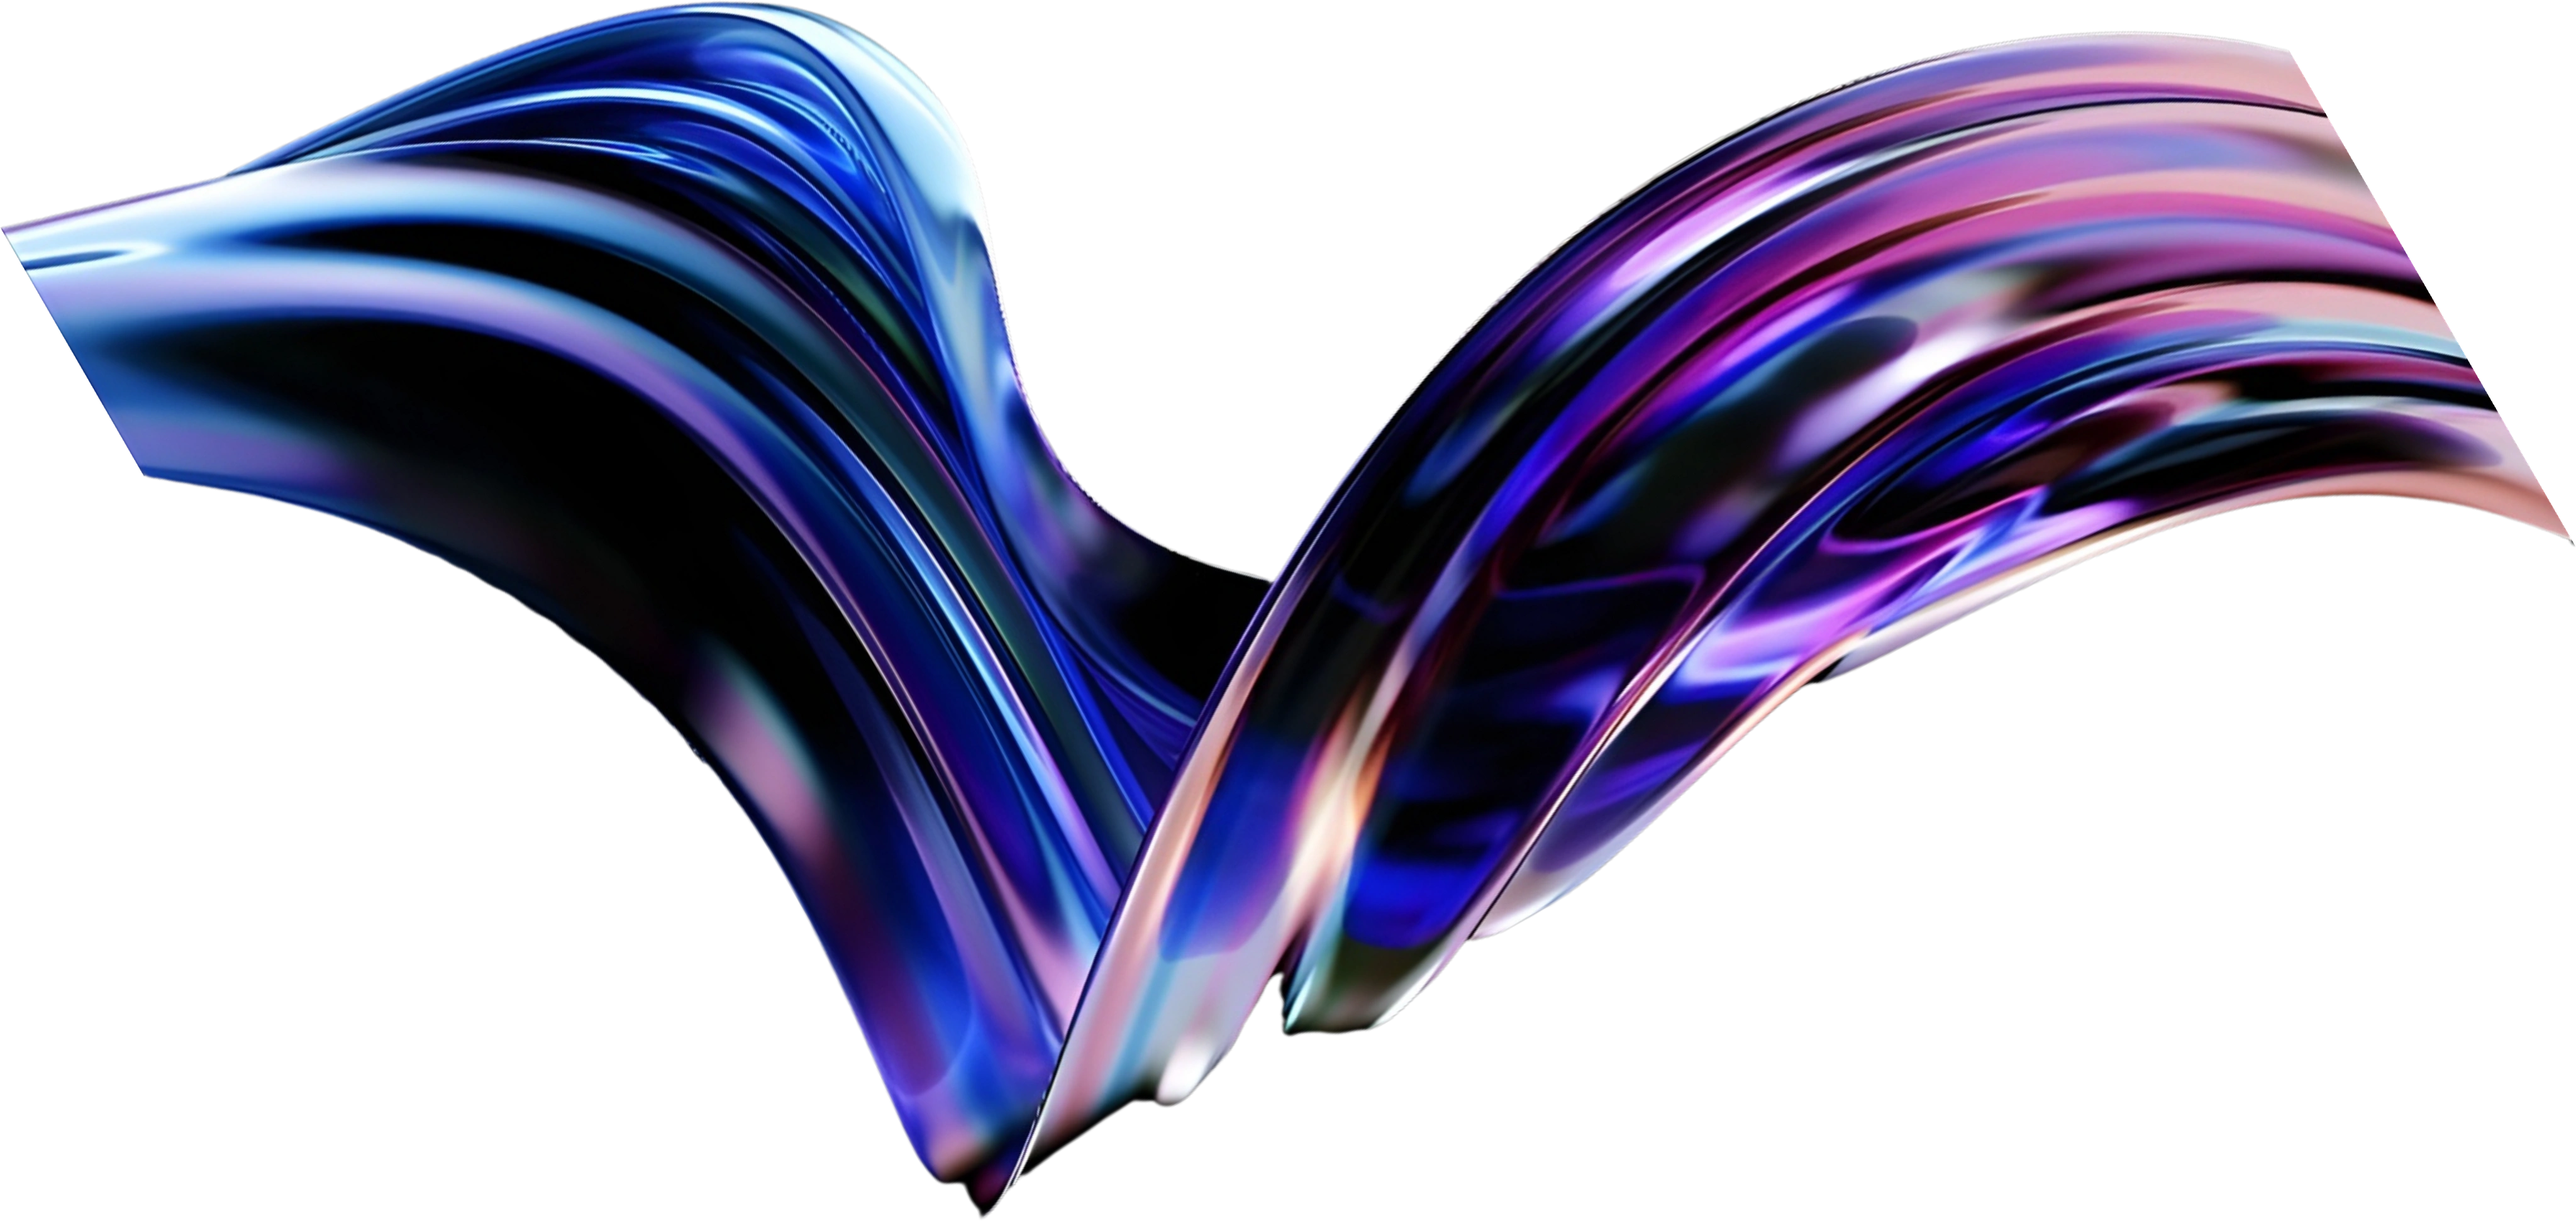
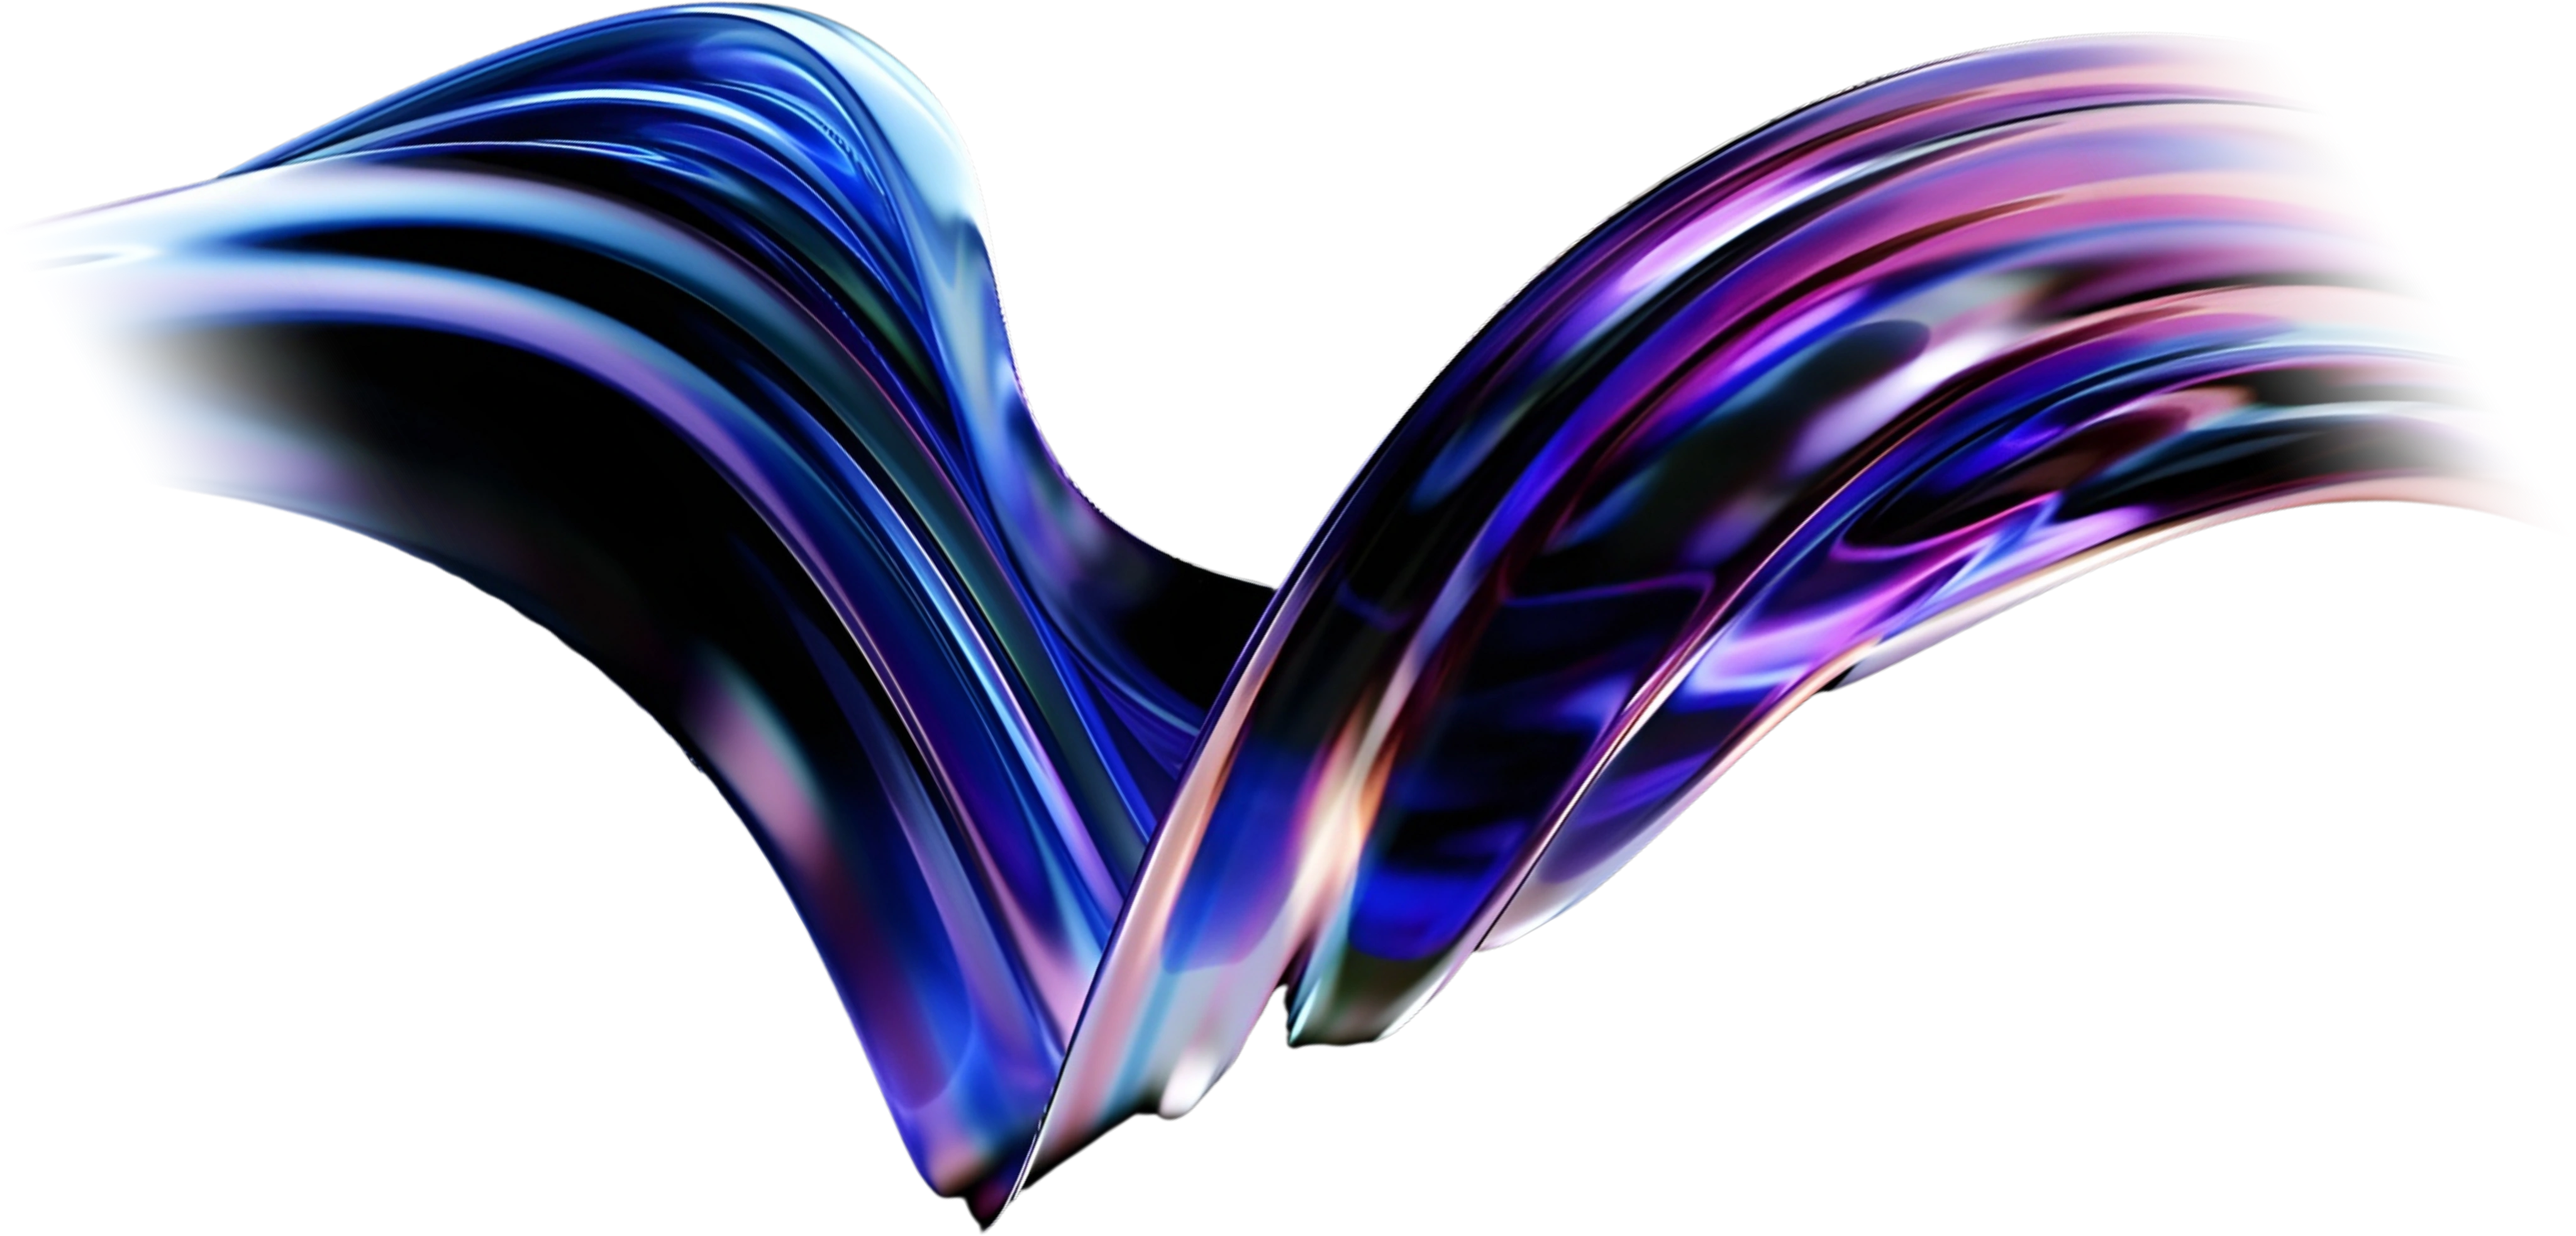
fix: eliminate all 3D mesh cut stubs with smoothstep alpha dissolves and seamless horizontal bleed

diff --git a/style.css b/style.css
@@ -655,18 +655,16 @@ body, body.desktop-view {
 /* Designer's 3D Blue Wave Ribbon 1 (Horizontal Seamless) */
 .about-wave-horizontal {
   position: absolute;
-  left: -5vw;
-  top: 48%;
-  transform: translateY(-50%);
-  width: 85vw;
-  max-width: 1600px;
+  left: 50%;
+  top: 50%;
+  transform: translate(-50%, -50%);
+  width: 105vw;
+  max-width: none;
   height: auto;
   pointer-events: none;
   z-index: 1;
   opacity: 0.65;
   filter: drop-shadow(0 0 50px rgba(67, 106, 238, 0.45));
-  -webkit-mask-image: linear-gradient(to right, transparent 0%, black 8%, black 90%, transparent 100%);
-  mask-image: linear-gradient(to right, transparent 0%, black 8%, black 90%, transparent 100%);
 }
 
 .about-grid {
@@ -837,19 +835,16 @@ body, body.desktop-view {
 
 .org-wave-horizontal {
   position: absolute;
-  right: -6vw;
-  left: auto;
-  top: 48%;
-  transform: translateY(-50%);
-  width: 80vw;
-  max-width: 1500px;
+  left: 50%;
+  top: 50%;
+  transform: translate(-50%, -50%);
+  width: 105vw;
+  max-width: none;
   height: auto;
   pointer-events: none;
   z-index: 1;
   opacity: 0.60;
   filter: drop-shadow(0 0 50px rgba(145, 224, 253, 0.4));
-  -webkit-mask-image: linear-gradient(to right, transparent 0%, black 10%, black 92%, transparent 100%);
-  mask-image: linear-gradient(to right, transparent 0%, black 10%, black 92%, transparent 100%);
 }
 
 .organizers-cards-grid {
@@ -953,18 +948,16 @@ body, body.desktop-view {
 
 .why-wave-horizontal {
   position: absolute;
-  left: -6vw;
+  left: 50%;
   top: 50%;
-  transform: translateY(-50%);
-  width: 80vw;
-  max-width: 1500px;
+  transform: translate(-50%, -50%);
+  width: 105vw;
+  max-width: none;
   height: auto;
   pointer-events: none;
   z-index: 1;
   opacity: 0.55;
   filter: drop-shadow(0 0 50px rgba(67, 106, 238, 0.4));
-  -webkit-mask-image: linear-gradient(to right, transparent 0%, black 10%, black 92%, transparent 100%);
-  mask-image: linear-gradient(to right, transparent 0%, black 10%, black 92%, transparent 100%);
 }
 
 .why-join-block {
@@ -1149,19 +1142,16 @@ body, body.desktop-view {
 
 .facts-wave-horizontal {
   position: absolute;
-  right: -6vw;
-  left: auto;
+  left: 50%;
   top: 50%;
-  transform: translateY(-50%);
-  width: 80vw;
-  max-width: 1500px;
+  transform: translate(-50%, -50%);
+  width: 105vw;
+  max-width: none;
   height: auto;
   pointer-events: none;
   z-index: 1;
   opacity: 0.60;
   filter: drop-shadow(0 0 45px rgba(67, 106, 238, 0.4));
-  -webkit-mask-image: linear-gradient(to right, transparent 0%, black 10%, black 92%, transparent 100%);
-  mask-image: linear-gradient(to right, transparent 0%, black 10%, black 92%, transparent 100%);
 }
 
 .facts-grid-4 {
@@ -1339,17 +1329,15 @@ body, body.desktop-view {
 .stages-glass-chain-horizontal {
   position: absolute;
   left: 50%;
-  top: 56%;
+  top: 58%;
   transform: translate(-50%, -50%);
-  width: 90vw;
-  max-width: 1700px;
+  width: 105vw;
+  max-width: none;
   height: auto;
   pointer-events: none;
   z-index: 1;
   opacity: 0.85;
   filter: drop-shadow(0 0 50px rgba(67, 106, 238, 0.45));
-  -webkit-mask-image: linear-gradient(to right, transparent 0%, black 8%, black 92%, transparent 100%);
-  mask-image: linear-gradient(to right, transparent 0%, black 8%, black 92%, transparent 100%);
 }
 
 .stages-timeline-row {
